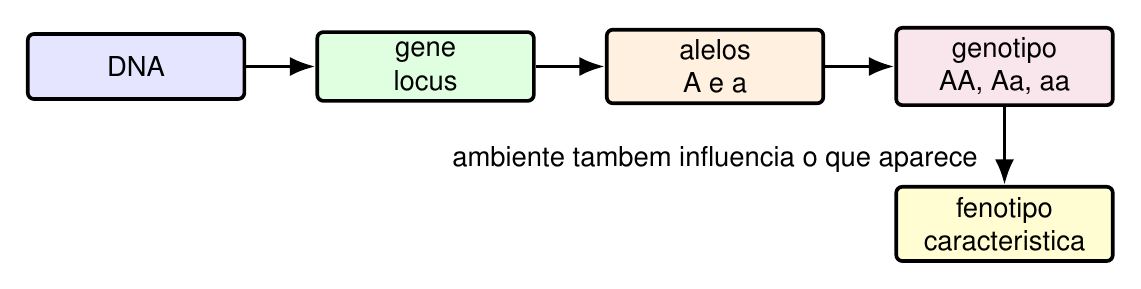
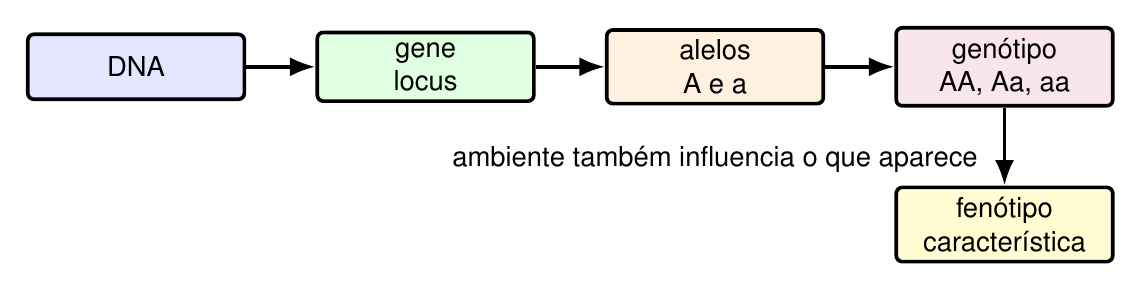
Corrige acentuacao em TikZ de Biologia

diff --git a/Biologia/1serie/unidade-4-bioquimica-celular-ii/figuras_cap03_origem-da-vida-na-terra.tex b/Biologia/1serie/unidade-4-bioquimica-celular-ii/figuras_cap03_origem-da-vida-na-terra.tex
@@ -10,12 +10,12 @@
 \begin{tikzpicture}[>=Latex,node distance=0.75cm]
   \tikzstyle{box}=[draw,rounded corners=2pt,very thick,align=center,minimum width=2.7cm,minimum height=0.75cm]
   \node[box,fill=blue!10] (terra) {Terra primitiva\\gases + energia};
-  \node[box,fill=green!12,right=0.8cm of terra] (mol) {moléculas\\organicas};
+  \node[box,fill=green!12,right=0.8cm of terra] (mol) {moléculas\\orgânicas};
   \node[box,fill=orange!12,right=0.8cm of mol] (pol) {polímeros\\simples};
   \node[box,fill=purple!10,right=0.8cm of pol] (proto) {protocélulas\\organização};
   \draw[very thick,->] (terra) -- (mol);
   \draw[very thick,->] (mol) -- (pol);
   \draw[very thick,->] (pol) -- (proto);
-  \node[align=center,below=0.65cm of mol] {hipóteses investigam mecanismos; propósito e uma pergunta teológica};
+  \node[align=center,below=0.65cm of mol] {hipóteses investigam mecanismos; propósito é uma pergunta teológica};
 \end{tikzpicture}
 \end{document}

diff --git a/Biologia/2serie/unidade-4-genetica-mendeliana/figuras_cap01_conceitos-fundamentais.tex b/Biologia/2serie/unidade-4-genetica-mendeliana/figuras_cap01_conceitos-fundamentais.tex
@@ -12,12 +12,12 @@
   \node[box,fill=blue!10] (dna) {DNA};
   \node[box,fill=green!12,right=0.8cm of dna] (gene) {gene\\locus};
   \node[box,fill=orange!12,right=0.8cm of gene] (alelo) {alelos\\A e a};
-  \node[box,fill=purple!10,right=0.8cm of alelo] (geno) {genotipo\\AA, Aa, aa};
-  \node[box,fill=yellow!18,below=0.9cm of geno] (fen) {fenotipo\\caracteristica};
+  \node[box,fill=purple!10,right=0.8cm of alelo] (geno) {genótipo\\AA, Aa, aa};
+  \node[box,fill=yellow!18,below=0.9cm of geno] (fen) {fenótipo\\característica};
   \draw[very thick,->] (dna) -- (gene);
   \draw[very thick,->] (gene) -- (alelo);
   \draw[very thick,->] (alelo) -- (geno);
   \draw[very thick,->] (geno) -- (fen);
-  \node[align=center,below=0.35cm of alelo] {ambiente tambem influencia o que aparece};
+  \node[align=center,below=0.35cm of alelo] {ambiente também influencia o que aparece};
 \end{tikzpicture}
 \end{document}

diff --git a/Biologia/2serie/unidade-4-genetica-mendeliana/figuras_cap03_segunda-lei-de-mendel.tex b/Biologia/2serie/unidade-4-genetica-mendeliana/figuras_cap03_segunda-lei-de-mendel.tex
@@ -11,11 +11,11 @@
   \tikzstyle{box}=[draw,rounded corners=2pt,very thick,align=center,minimum width=2.2cm,minimum height=0.75cm]
   \node[box,fill=blue!10] (aabb) {AaBb};
   \node[box,fill=green!12,below=0.9cm of aabb] (gam) {AB \quad Ab\\aB \quad ab};
-  \node[box,fill=orange!12,right=1.0cm of gam] (pun) {4 x 4\\16 combinacoes};
-  \node[box,fill=yellow!18,right=1.0cm of pun] (prop) {9:3:3:1\\fenotipos};
+  \node[box,fill=orange!12,right=1.0cm of gam] (pun) {4 x 4\\16 combinações};
+  \node[box,fill=yellow!18,right=1.0cm of pun] (prop) {9:3:3:1\\fenótipos};
   \draw[very thick,->] (aabb) -- (gam);
   \draw[very thick,->] (gam) -- (pun);
   \draw[very thick,->] (pun) -- (prop);
-  \node[align=center,above=0.35cm of pun] {genes independentes + dominancia completa};
+  \node[align=center,above=0.35cm of pun] {genes independentes + dominância completa};
 \end{tikzpicture}
 \end{document}

diff --git a/Biologia/1serie/unidade-4-bioquimica-celular-ii/figuras_cap04_teorias-historicas-sobre-origem-da-vida.tex b/Biologia/1serie/unidade-4-bioquimica-celular-ii/figuras_cap04_teorias-historicas-sobre-origem-da-vida.tex
@@ -13,11 +13,11 @@
   \node[box,fill=blue!10,right=0.8cm of ge] (redi) {Redi\\frascos};
   \node[box,fill=green!12,right=0.8cm of redi] (spal) {Spallanzani\\caldos};
   \node[box,fill=orange!12,right=0.8cm of spal] (past) {Pasteur\\pescoço de cisne};
-  \node[box,fill=yellow!18,right=0.8cm of past] (bio) {biogenese\\vida vem de vida};
+  \node[box,fill=yellow!18,right=0.8cm of past] (bio) {biogênese\\vida vem de vida};
   \draw[very thick,->] (ge) -- (redi);
   \draw[very thick,->] (redi) -- (spal);
   \draw[very thick,->] (spal) -- (past);
   \draw[very thick,->] (past) -- (bio);
-  \node[align=center,below=0.65cm of spal] {controle experimental corrige conclusoes apressadas};
+  \node[align=center,below=0.65cm of spal] {controle experimental corrige conclusões apressadas};
 \end{tikzpicture}
 \end{document}

diff --git a/Biologia/9ano/unidade-4-genetica-aplicada/figuras_cap03_mutacoes.tex b/Biologia/9ano/unidade-4-genetica-aplicada/figuras_cap03_mutacoes.tex
@@ -10,7 +10,7 @@
 \begin{tikzpicture}[>=Latex,node distance=0.7cm]
   \tikzstyle{box}=[draw,rounded corners=2pt,very thick,align=center,minimum width=2.5cm,minimum height=0.75cm]
   \node[box,fill=blue!10] (dna) {DNA\\A T C G A};
-  \node[box,fill=yellow!18,below left=0.9cm and 0.2cm of dna] (sub) {substituicao\\A T G G A};
+  \node[box,fill=yellow!18,below left=0.9cm and 0.2cm of dna] (sub) {substituição\\A T G G A};
   \node[box,fill=orange!12,below=0.9cm of dna] (ins) {inserção\\A T C C G A};
   \node[box,fill=red!10,below right=0.9cm and 0.2cm of dna] (del) {deleção\\A T G A};
   \node[box,fill=green!12,below=1.0cm of ins] (efeito) {efeito\\neutro, prejudicial\\ou vantajoso};

diff --git a/Biologia/3serie/unidade-4-genetica-molecular-avancada/figuras_cap01_regulacao-da-expressao-genica.tex b/Biologia/3serie/unidade-4-genetica-molecular-avancada/figuras_cap01_regulacao-da-expressao-genica.tex
@@ -14,7 +14,7 @@
   \node[box,fill=orange!12,right=0.8cm of rna] (prot) {proteína\\tradução};
   \node[box,fill=yellow!18,below=0.9cm of dna] (crom) {cromatina};
   \node[box,fill=yellow!18,below=0.9cm of rna] (splice) {splicing\\estabilidade};
-  \node[box,fill=yellow!18,below=0.9cm of prot] (pos) {modificacao\\pos-tradução};
+  \node[box,fill=yellow!18,below=0.9cm of prot] (pos) {modificação\\pós-tradução};
   \draw[very thick,->] (dna) -- (rna);
   \draw[very thick,->] (rna) -- (prot);
   \draw[thick,->] (crom) -- (dna);

diff --git a/Biologia/2serie/unidade-4-genetica-mendeliana/figuras_cap02_primeira-lei-de-mendel.tex b/Biologia/2serie/unidade-4-genetica-mendeliana/figuras_cap02_primeira-lei-de-mendel.tex
@@ -19,6 +19,6 @@
   \node[box,fill=yellow!18,right=0.55cm of AA] (Aa1) {Aa};
   \node[box,fill=yellow!18,right=0.55cm of Aa1] (Aa2) {Aa};
   \node[box,fill=red!10,right=0.55cm of Aa2] (aa) {aa};
-  \node[align=center,below=0.45cm of Aa1] {1:2:1 genotipos \quad 3:1 fenotipos};
+  \node[align=center,below=0.45cm of Aa1] {1:2:1 genótipos \quad 3:1 fenótipos};
 \end{tikzpicture}
 \end{document}

diff --git a/_tools/PLANEJAMENTO_REVISAO_ACENTUACAO_TIKZ_POR_DISCIPLINA.md b/_tools/PLANEJAMENTO_REVISAO_ACENTUACAO_TIKZ_POR_DISCIPLINA.md
@@ -11,7 +11,7 @@ Fontes TikZ ativas encontradas fora de `_legado/`:
 | Ordem | Disciplina | Fontes `.tex` | Status |
 |---:|---|---:|---|
 | 1 | Quimica | 11 | Concluido |
-| 2 | Biologia | 14 | Pendente |
+| 2 | Biologia | 14 | Concluido |
 | 3 | Fisica | 16 | Pendente |
 | 4 | Geometria | 20 | Pendente |
 |  | **Total** | **61** |  |
@@ -199,7 +199,8 @@ git commit -m "Corrige acentuacao em TikZ de Geometria"
 ## Registro de Execucao
 
 - Quimica: revisada, corrigida, renderizada e validada neste lote.
+- Biologia: revisada, corrigida, renderizada e validada neste lote.
 
 ## Proximo Passo
 
-Iniciar o **Lote 2 - Biologia** depois do commit e push do lote de Quimica.
+Iniciar o **Lote 3 - Fisica** depois do commit e push do lote de Biologia.
